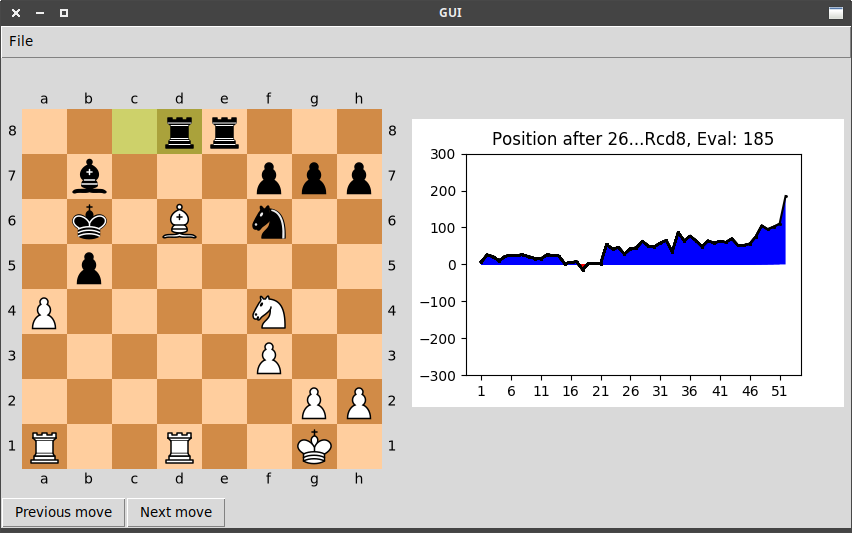
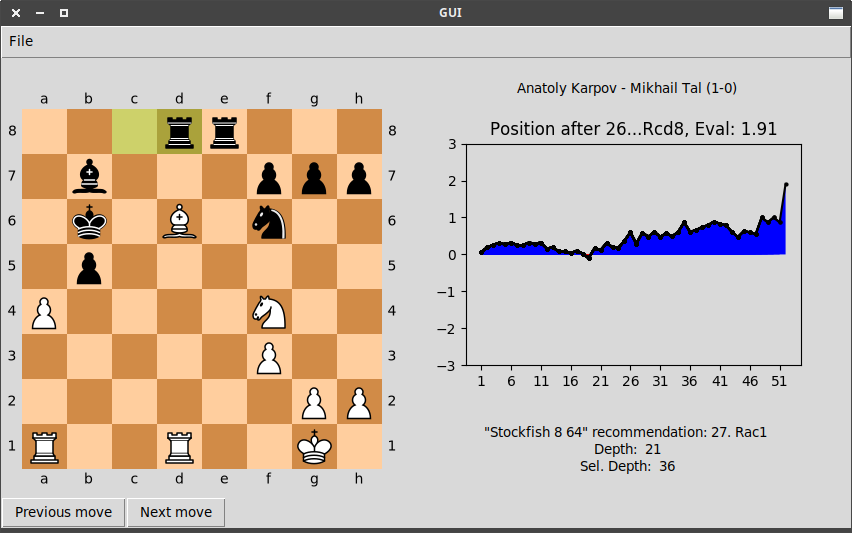
GUI Color Scheme Improvement

Changed region(s): [[0.4577, 0.2101, 1.0, 0.9006], [0.6103, 0.1501, 0.885, 0.1801]]

diff --git a/definitions.py b/definitions.py
@@ -16,14 +16,14 @@ from tqdm import tqdm
 
 class Chess_Game:
         def __init__(self, args):
-                self.pgn, self.inverted, self.engine_time, self.gif_time, self.engine_path = args.p, args.Inverted, args.et, args.gt, args.ep
-                print("\nFile: {}\nInverted Board: {}\nEngine Evaluation Time: {}ms per move\nGif Interval: {}s\nEngine Path: {}\n".format(self.pgn, self.inverted, self.engine_time, self.gif_time, self.engine_path))
+                self.pgn, self.inverted, self.engine_time, self.engine_path, self.gui_color = args.p, args.Inverted, args.et, args.ep, args.c
+                delete_files()
+                print("\nFile: {}\nInverted Board: {}\nEngine Evaluation Time: {}ms per move\nGUI Color: {}\nEngine Path: {}\n".format(self.pgn, self.inverted, self.engine_time, self.gui_color, self.engine_path))
                 self.pgn_init()
                 self.game_init()
                 self.ply = 1
                 self.eng = []
                 self.jogo = []
-
                 self.game_analysis("Moves")
                 #print(self.jogo)
                 self.game_lst()
@@ -102,10 +102,13 @@ class Chess_Game:
                 #z = np.array([0 for x in range(len(self.num_scores))])
                 z = np.zeros(len(self.num_scores))
                 self.num_scores = np.array(self.num_scores)
-                plt.figure(figsize=(4.32, 2.88))
+                fig = plt.figure(figsize=(4.32, 2.88))
+                ax = fig.add_subplot(111)
+                ax.set_facecolor(self.gui_color)
+                fig.patch.set_facecolor(self.gui_color) 
                 for x in tqdm(self.gm_lst):
                         t = list(range(1, len(self.num_scores[:ply])+1, 1))
-                        plt.plot(t, self.num_scores[:ply]/100, color='black', marker='o', markersize=3)
+                        plt.plot(t, self.num_scores[:ply]/100, color='black', marker='o', markersize=2)
                         if abs(max(self.num_scores[:ply], key=abs))/100<300/100:
                                 plt.ylim(-300/100, 300/100)
                         else:
@@ -114,21 +117,17 @@ class Chess_Game:
                         plt.fill_between(t, self.num_scores[:ply]/100, 0, where=self.num_scores[:ply] <= z[:ply], facecolor='red', interpolate=True)
                         plt.xticks(np.arange(1, ply+1, 5) if ply>5 else np.arange(1, 5+1, 1))
                         plt.title("Position after {}, Eval: {}".format(self.gm_lst[ply-1][2], self.num_scores[ply-1]/100))
-                        plt.savefig("{}/{}.png".format(folder, ply))
+                        plt.savefig("{}/{}.png".format(folder, ply), facecolor=fig.get_facecolor(), edgecolor='none')
                         ply += 1
                 return
 def parser():
     parser = argparse.ArgumentParser(description='Local Chess Graphical Evaluation')
     parser.add_argument('-p', metavar='pgn', default="dumb.pgn", help='PGN File to be analyzed')
-    parser.add_argument('-iv', dest='Inverted', action='store_true', \
-            help = 'Inverted board')
+    parser.add_argument('-iv', dest='Inverted', action='store_true', help = 'Inverted board')
     parser.set_defaults(Inverted = False)
-    parser.add_argument('-et', metavar='engine time', type = int, \
-            default = 2000, help='Engine evaluation time in milisseconds')
-    parser.add_argument('-gt', metavar='gif speed', type = float, \
-            default = 1.0, help='Gif speed in seconds')
-    parser.add_argument('-ep', metavar='engine path', type = str, \
-            default = "stockfish", help='Path to local engine')
+    parser.add_argument('-et', metavar='engine time', type = int, default = 2000, help='Engine evaluation time in milisseconds')
+    parser.add_argument('-ep', metavar='engine path', type = str,default = "stockfish", help='Path to local engine')
+    parser.add_argument('-c', metavar='GUI colors', type = str,default = "#d9d9d9", help='GUI Window color given in Hex (Default: "#d9d9d9")')
     args = parser.parse_args() 
 
     #print(args)

diff --git a/gui.py b/gui.py
@@ -22,6 +22,9 @@ class Window(Frame):
         self.master.bind("<Right>", self.right_key)
         self.master.bind("<Left>", self.left_key)
 
+        #self.tk_setPalette(background='#d9d9d9', activeForeground="blue2")
+        #print(self.cget('bg'))
+
     def right_key(self, event):
         self.showImg(1)
 
@@ -85,6 +88,7 @@ class Window(Frame):
         self.cg = cg
         self.game_len = len(self.cg.gm_lst)
 
+        self.tk_setPalette(background=self.cg.gui_color, activeForeground="blue2")
         #initial texts
         text = Label(self, text="{} - {} ({})".format(self.cg.game.headers["White"], self.cg.game.headers["Black"], self.cg.game.headers["Result"]))
         text.place(x=Player_Text_Pos[0], y=Player_Text_Pos[1], anchor="center")

diff --git a/main.py b/main.py
@@ -8,7 +8,6 @@ def ask_quit():
         
 if __name__ == "__main__":
 
-    delete_files()
     cg = Chess_Game(parser())
     
     #print(cg.gm_lst)
@@ -17,6 +16,7 @@ if __name__ == "__main__":
     root = Toplevel()
 
     app = Window(root)
+
     app.game_info(cg)
     
     root.protocol("WM_DELETE_WINDOW", ask_quit)
